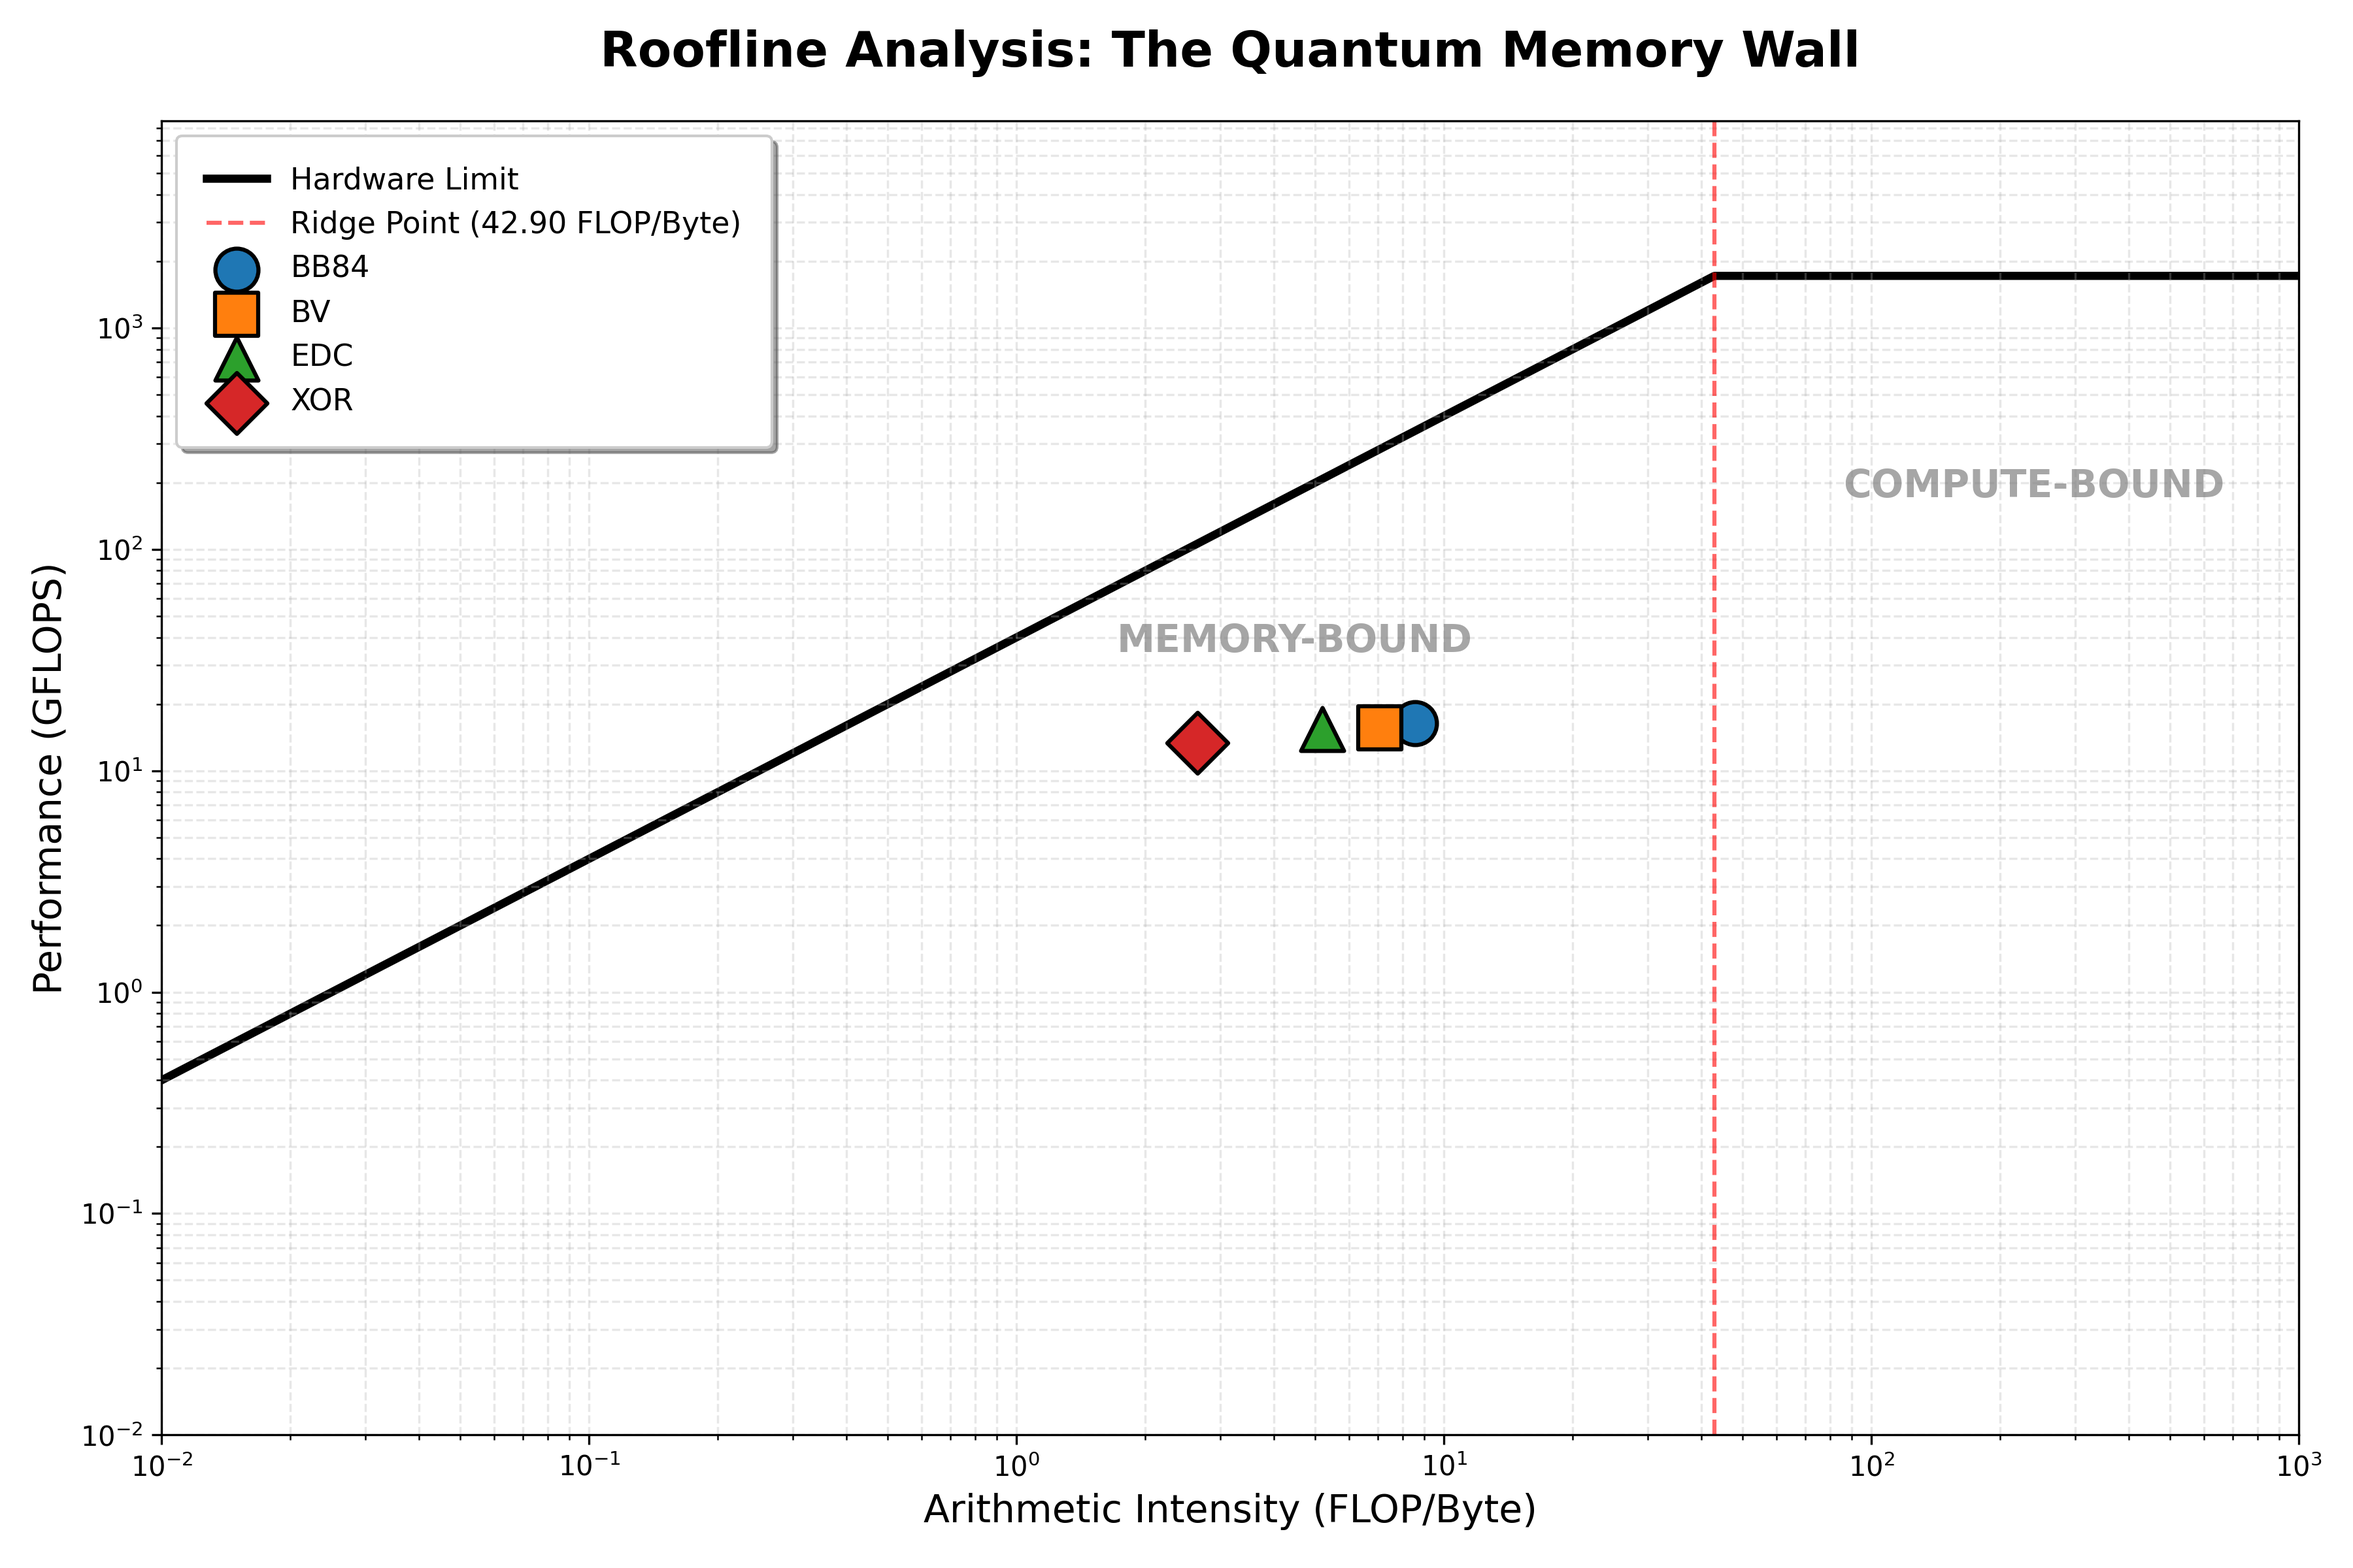
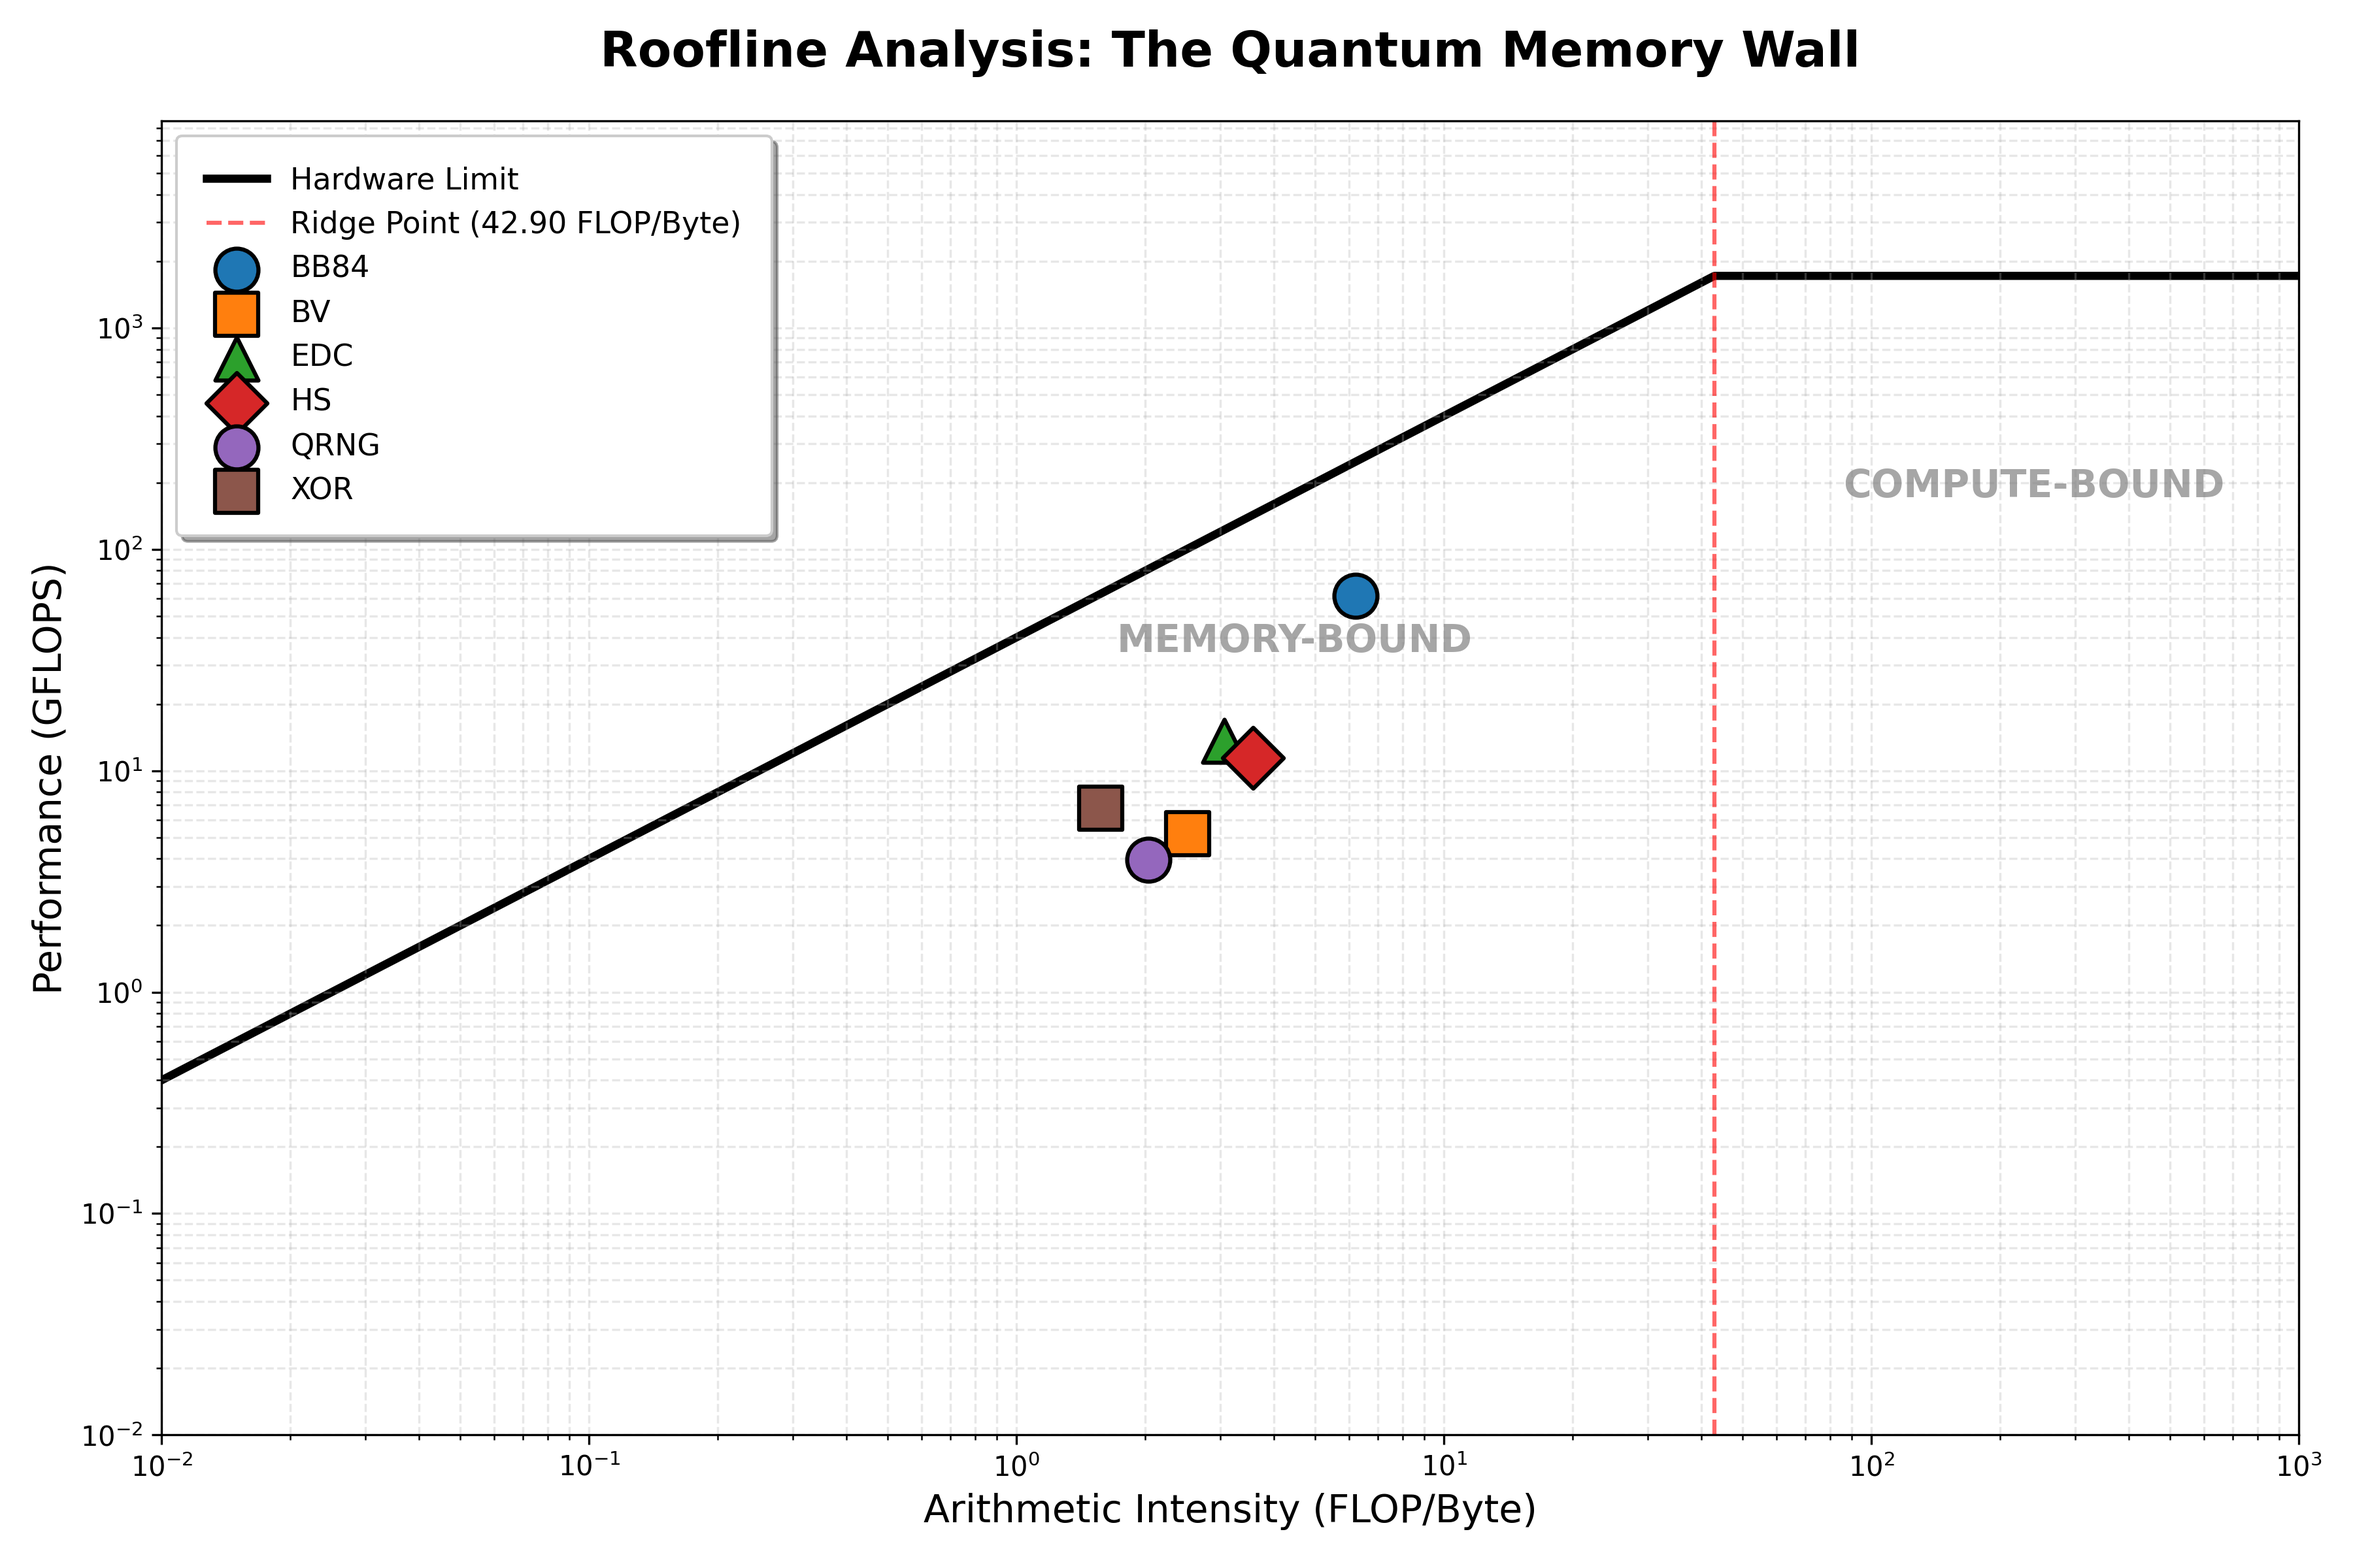
[thesis] trying to recreathe roofline (memory vs compute bound plot) - NOT ACCURATE YET

Changed region(s): [[0.0622, 0.25, 0.3422, 0.3438], [0.4356, 0.4375, 0.6222, 0.5625], [0.56, 0.3438, 0.5911, 0.4062]]

diff --git a/thesis/PIMutation_reconstruction/QuEST_implementation/src/profiling/roofline_profiler_likwid.py b/thesis/PIMutation_reconstruction/QuEST_implementation/src/profiling/roofline_profiler_likwid.py
@@ -1,0 +1,100 @@
+#!/usr/bin/env python3
+import os
+import subprocess
+import csv
+import re
+import sys
+
+# ====================== CONFIG ======================
+SCRIPT_DIR = os.path.dirname(os.path.abspath(__file__))
+EXEC_PATH = os.path.join(SCRIPT_DIR, "../../bin/quest_runner")
+OUTPUT_FILE = os.path.join(SCRIPT_DIR, "roofline_data_perf.csv")
+
+ALGORITHMS = ["BB84", "BV", "EDC", "HS", "QRNG", "XOR"]
+QUBITS = 27          # 2 GiB state vector → forces DRAM traffic (same regime as paper)
+CORES = "0-5"        # Ryzen 5 5600 has 6 cores
+
+# === THESE ARE YOUR MACHINE LIMITS (update after running STREAM below) ===
+PEAK_GFLOPS_DP = 422.0      # theoretical for Ryzen 5 5600 (6c * 16 DP FLOP/cycle * ~4.4 GHz)
+PEAK_BW_GB_S = 52.0         # ←←← REPLACE WITH YOUR STREAM Triad result (see instructions)
+RIDGE_FLOP_PER_BYTE = PEAK_GFLOPS_DP / PEAK_BW_GB_S
+
+TIME_REGEX = re.compile(r"Execution Time \(Comp\.\):\s+([0-9\.]+)\s+seconds")
+
+def run_perf(algo):
+    print(f"Profiling {algo} (QUBITS={QUBITS})...")
+
+    perf_cmd = [
+        "sudo", "taskset", "-c", CORES,
+        "perf", "stat", "-x", ",", "-e",
+        "instructions,fp_ret_sse_avx_ops.all,l3_misses",
+        EXEC_PATH, "--algo", algo, "--qubits", str(QUBITS)
+    ]
+
+    try:
+        result = subprocess.run(perf_cmd, capture_output=True, text=True, check=True)
+
+        # 1. Parse QuEST compute time
+        exec_time = 0.0
+        time_match = TIME_REGEX.search(result.stdout)
+        if time_match:
+            exec_time = float(time_match.group(1))
+
+        # 2. Parse perf counters from stderr
+        lines = result.stderr.strip().split('\n')
+        instructions = 0
+        flops = 0
+        l3_misses = 0
+
+        for line in lines:
+            parts = line.split(',')
+            if len(parts) < 3 or not parts[0].replace('.', '', 1).replace('e+', '', 1).replace('-', '', 1).isdigit():
+                continue
+            val = float(parts[0])
+            event = parts[2]
+
+            if "fp_ret_sse_avx_ops.all" in event:
+                flops = int(val)
+            elif "l3_misses" in event:
+                l3_misses = int(val)
+
+        if flops == 0 or l3_misses == 0:
+            print(f" -> WARNING: Zero counters for {algo}. Check 'perf list | grep -E \"fp|l3\"'")
+
+        bytes_from_ram = l3_misses * 64
+        ai = flops / bytes_from_ram if bytes_from_ram > 0 else 0.0
+        gfops = (flops / exec_time / 1e9) if exec_time > 0 else 0.0
+
+        print(f" -> AI: {ai:.3f} FLOP/Byte | Perf: {gfops:.1f} GFLOPS | Time: {exec_time:.3f}s | L3 misses: {l3_misses:,}")
+
+        return {
+            "Algorithm": algo,
+            "Time_s": exec_time,
+            "L3_Misses": l3_misses,
+            "DRAM_Bytes": bytes_from_ram,
+            "FLOPS": flops,
+            "Arithmetic_Intensity": ai,
+            "GFLOPS": gfops,
+            "Ridge_FLOP_Byte": RIDGE_FLOP_PER_BYTE
+        }
+
+    except subprocess.CalledProcessError as e:
+        print(f" -> ERROR: {e.stderr.strip()}")
+        print("   Try: sudo sysctl -w kernel.perf_event_paranoid=-1")
+        return None
+
+def main():
+    with open(OUTPUT_FILE, mode='w', newline='') as f:
+        writer = csv.DictWriter(f, fieldnames=["Algorithm","Time_s","L3_Misses","DRAM_Bytes","FLOPS","Arithmetic_Intensity","GFLOPS","Ridge_FLOP_Byte"])
+        writer.writeheader()
+        for algo in ALGORITHMS:
+            data = run_perf(algo)
+            if data:
+                writer.writerow(data)
+
+    print(f"\n✅ Done! Data saved to {OUTPUT_FILE}")
+    print(f"   Realistic ridge point (before STREAM measurement): {RIDGE_FLOP_PER_BYTE:.2f} FLOP/Byte")
+    print("   Update PEAK_BW_GB_S after running STREAM (see below) and re-plot.")
+
+if __name__ == "__main__":
+    main()

diff --git a/thesis/PIMutation_reconstruction/QuEST_implementation/src/profiling/roofline_profiler.py b/thesis/PIMutation_reconstruction/QuEST_implementation/src/profiling/roofline_profiler.py
@@ -9,8 +9,8 @@ SCRIPT_DIR = os.path.dirname(os.path.abspath(__file__))
 EXEC_PATH = os.path.join(SCRIPT_DIR, "../../bin/quest_runner")
 OUTPUT_FILE = os.path.join(SCRIPT_DIR, "roofline_data.csv")
 
-ALGORITHMS = ["BB84", "BV", "EDC", "XOR"]
-QUBITS = 26 # 2GB State Vector - definitely hits RAM
+ALGORITHMS = ["BB84", "BV", "EDC", "HS", "QRNG", "XOR"]
+QUBITS = 18 # 2GB State Vector - definitely hits RAM
 
 TIME_REGEX = re.compile(r"Execution Time \(Comp\.\):\s+([0-9\.]+)\s+seconds")
 
